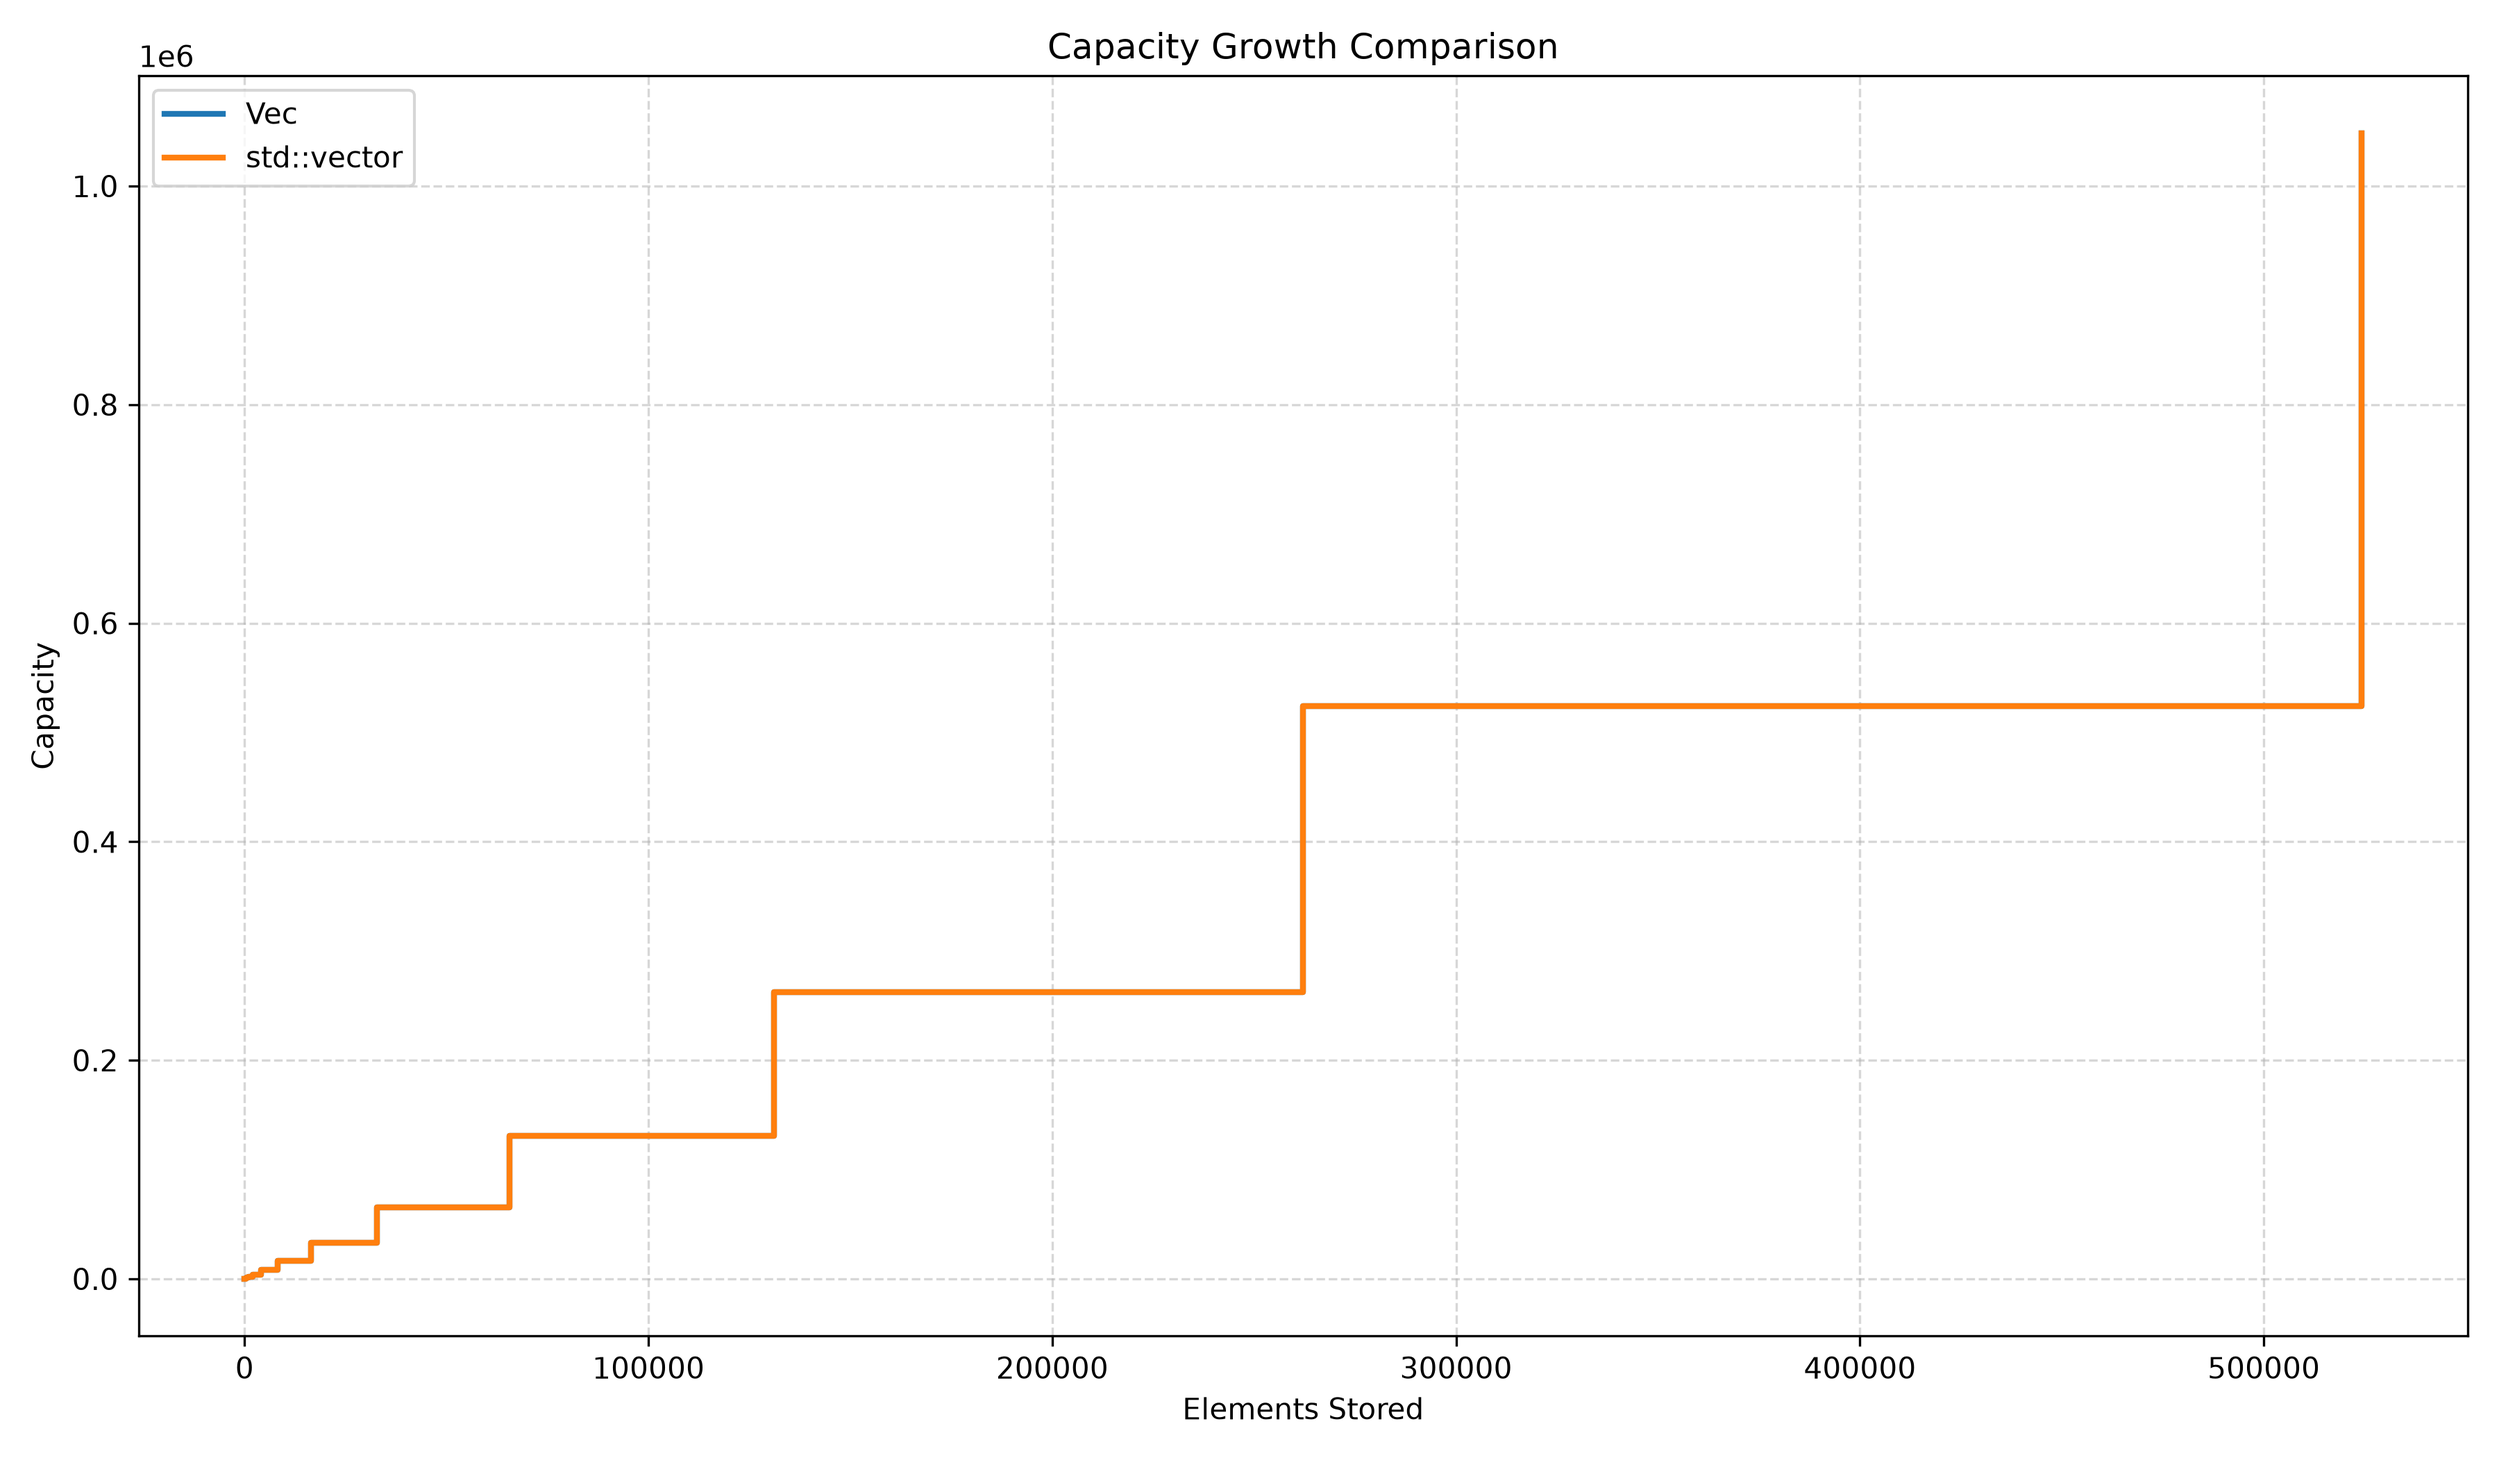
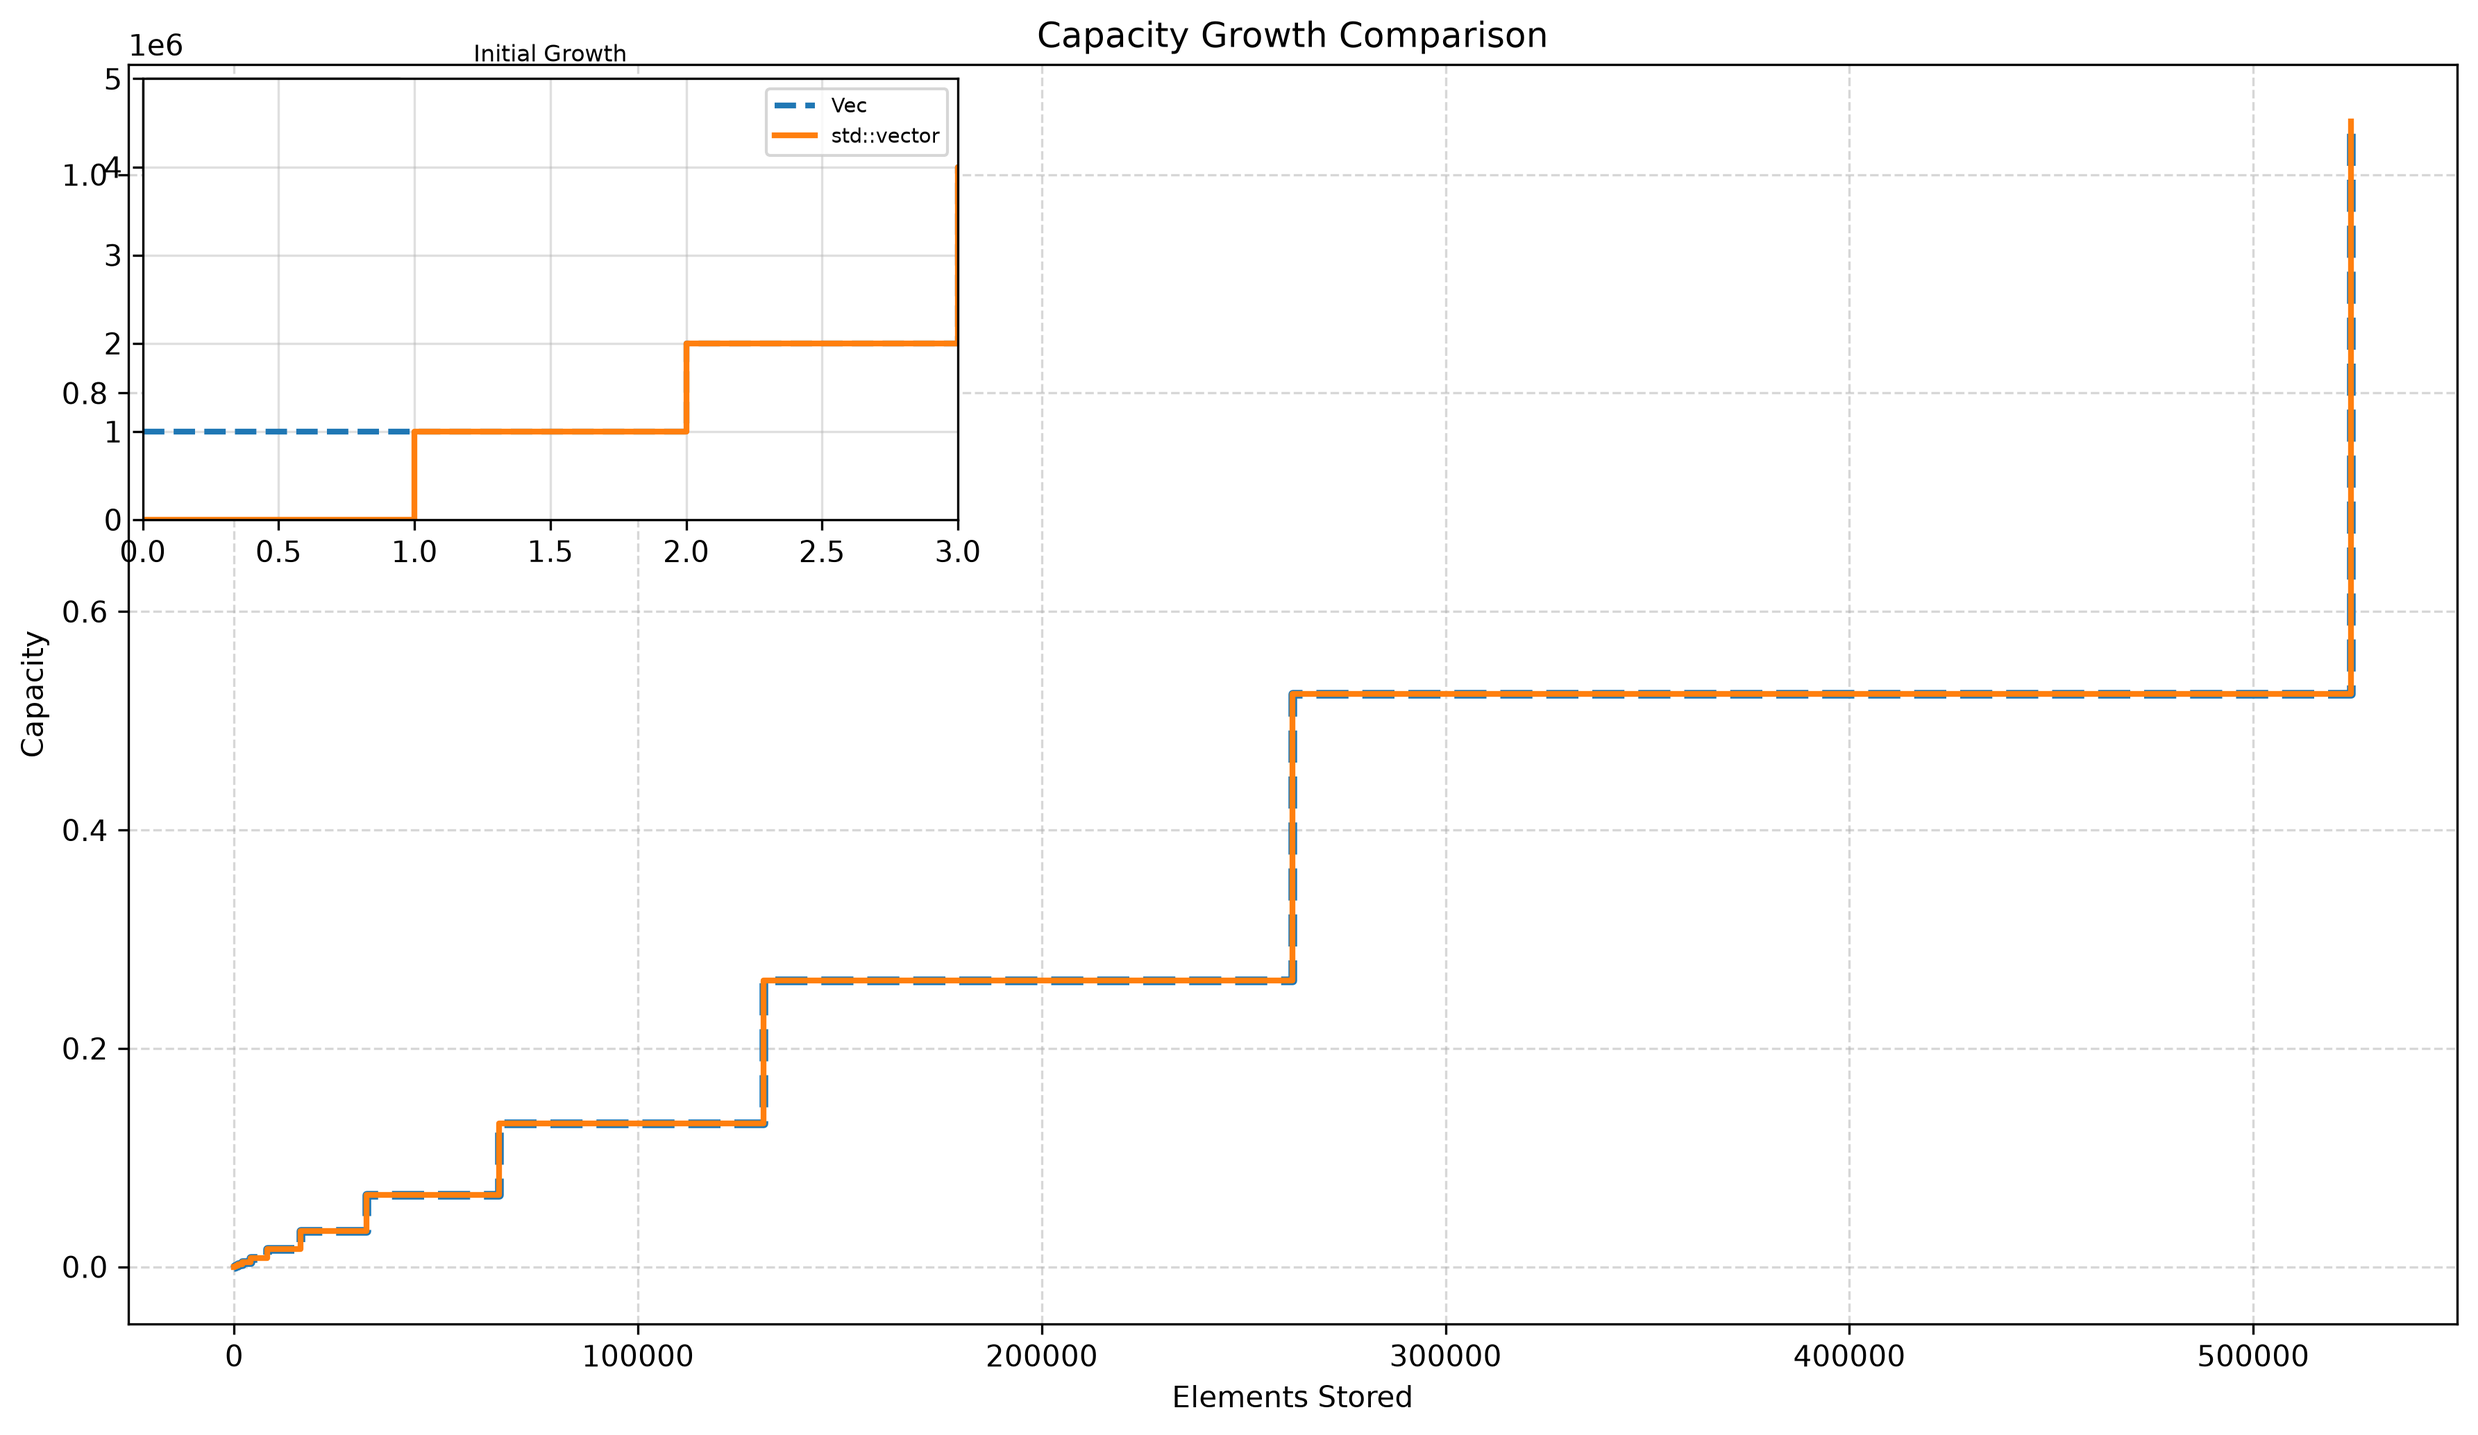
feat: enhance graph generation with inset plots for performance and capacity comparisons

diff --git a/benchmarks/report/graph.py b/benchmarks/report/graph.py
@@ -1,11 +1,16 @@
 import pandas as pd
 import matplotlib.pyplot as plt
+from mpl_toolkits.axes_grid1.inset_locator import inset_axes
+
+# ==================================================
+# Append Runtime Graph
+# ==================================================
 
 df = pd.read_csv("../data/data.csv")
 
-plt.figure(figsize=(12, 7))
+fig, ax = plt.subplots(figsize=(12, 7))
 
-plt.plot(
+ax.plot(
     df["Size"],
     df["VecMs"],
     marker="o",
@@ -13,7 +18,7 @@ plt.plot(
     label="Vec"
 )
 
-plt.plot(
+ax.plot(
     df["Size"],
     df["StdVectorMs"],
     marker="s",
@@ -21,7 +26,7 @@ plt.plot(
     label="std::vector"
 )
 
-plt.plot(
+ax.plot(
     df["Size"],
     df["LinkedListMs"],
     marker="^",
@@ -29,25 +34,84 @@ plt.plot(
     label="LinkedList"
 )
 
-plt.xlabel("Number of Append Operations")
-plt.ylabel("Execution Time (ms)")
+ax.set_xlabel("Number of Append Operations")
+ax.set_ylabel("Execution Time (ms)")
 
-plt.title("Append Performance Comparison")
+ax.set_title(
+    "Append Performance Comparison"
+)
 
-plt.legend()
+ax.legend()
 
-plt.grid(
+ax.grid(
     True,
     linestyle="--",
     alpha=0.5
 )
 
-plt.tight_layout()
+# --------------------------------------------------
+# Inset: Vec vs std::vector
+# --------------------------------------------------
+
+axins = inset_axes(
+    ax,
+    width="40%",
+    height="40%",
+    loc="upper left"
+)
+
+axins.plot(
+    df["Size"],
+    df["VecMs"],
+    marker="o",
+    linewidth=2,
+    label="Vec"
+)
+
+axins.plot(
+    df["Size"],
+    df["StdVectorMs"],
+    marker="s",
+    linewidth=2,
+    label="std::vector"
+)
+
+# Zoom into region where differences matter
+axins.set_xlim(0, 120000)
+axins.set_ylim(0, 1.2)
+
+axins.set_title(
+    "Zoom: Vec vs std::vector",
+    fontsize=8
+)
+
+axins.grid(
+    True,
+    alpha=0.4
+)
+
+axins.legend(
+    fontsize=7
+)
+
+fig.subplots_adjust(
+    left=0.10,
+    right=0.97,
+    bottom=0.10,
+    top=0.92
+)
 
 plt.savefig(
     "append_runtime.png",
-    dpi=300
+    dpi=300,
+    bbox_inches="tight"
 )
+
+plt.close(fig)
+
+# ==================================================
+# Capacity Growth Comparison
+# ==================================================
 
 capacity_df = pd.read_csv(
     "../data/capacity_growth.csv"
@@ -57,42 +121,101 @@ std_capacity_df = pd.read_csv(
     "../data/std_capacity_growth.csv"
 )
 
-plt.figure(figsize=(12, 7))
+fig, ax = plt.subplots(figsize=(12, 7))
 
-plt.step(
+ax.step(
     capacity_df["Size"],
     capacity_df["Capacity"],
     where="post",
-    linewidth=2,
+    linewidth=3,
+    linestyle="--",
+    color="tab:blue",
     label="Vec"
 )
 
-plt.step(
+ax.step(
     std_capacity_df["Size"],
     std_capacity_df["Capacity"],
     where="post",
     linewidth=2,
+    color="tab:orange",
     label="std::vector"
 )
 
-plt.xlabel("Elements Stored")
-plt.ylabel("Capacity")
+ax.set_xlabel("Elements Stored")
+ax.set_ylabel("Capacity")
 
-plt.title("Capacity Growth Comparison")
+ax.set_title(
+    "Capacity Growth Comparison"
+)
 
-plt.legend()
+ax.legend()
 
-plt.grid(
+ax.grid(
     True,
     linestyle="--",
     alpha=0.5
 )
 
-plt.tight_layout()
+# --------------------------------------------------
+# Inset: Initial Difference
+# --------------------------------------------------
+
+axins = inset_axes(
+    ax,
+    width="35%",
+    height="35%",
+    loc="upper left"
+)
+
+axins.step(
+    capacity_df["Size"],
+    capacity_df["Capacity"],
+    where="post",
+    linewidth=2,
+    linestyle="--",
+    color="tab:blue"
+)
+
+axins.step(
+    std_capacity_df["Size"],
+    std_capacity_df["Capacity"],
+    where="post",
+    linewidth=2,
+    color="tab:orange"
+)
+
+axins.set_xlim(0, 3)
+axins.set_ylim(0, 5)
+
+axins.set_title(
+    "Initial Growth",
+    fontsize=8
+)
+
+axins.grid(
+    True,
+    alpha=0.4
+)
+
+axins.legend(
+    ["Vec", "std::vector"],
+    fontsize=7
+)
+
+fig.subplots_adjust(
+    left=0.10,
+    right=0.97,
+    bottom=0.10,
+    top=0.92
+)
 
 plt.savefig(
     "capacity_growth.png",
-    dpi=300
+    dpi=300,
+    bbox_inches="tight"
 )
 
-plt.show()
+plt.close(fig)
+
+print("Graphs generated successfully.")
